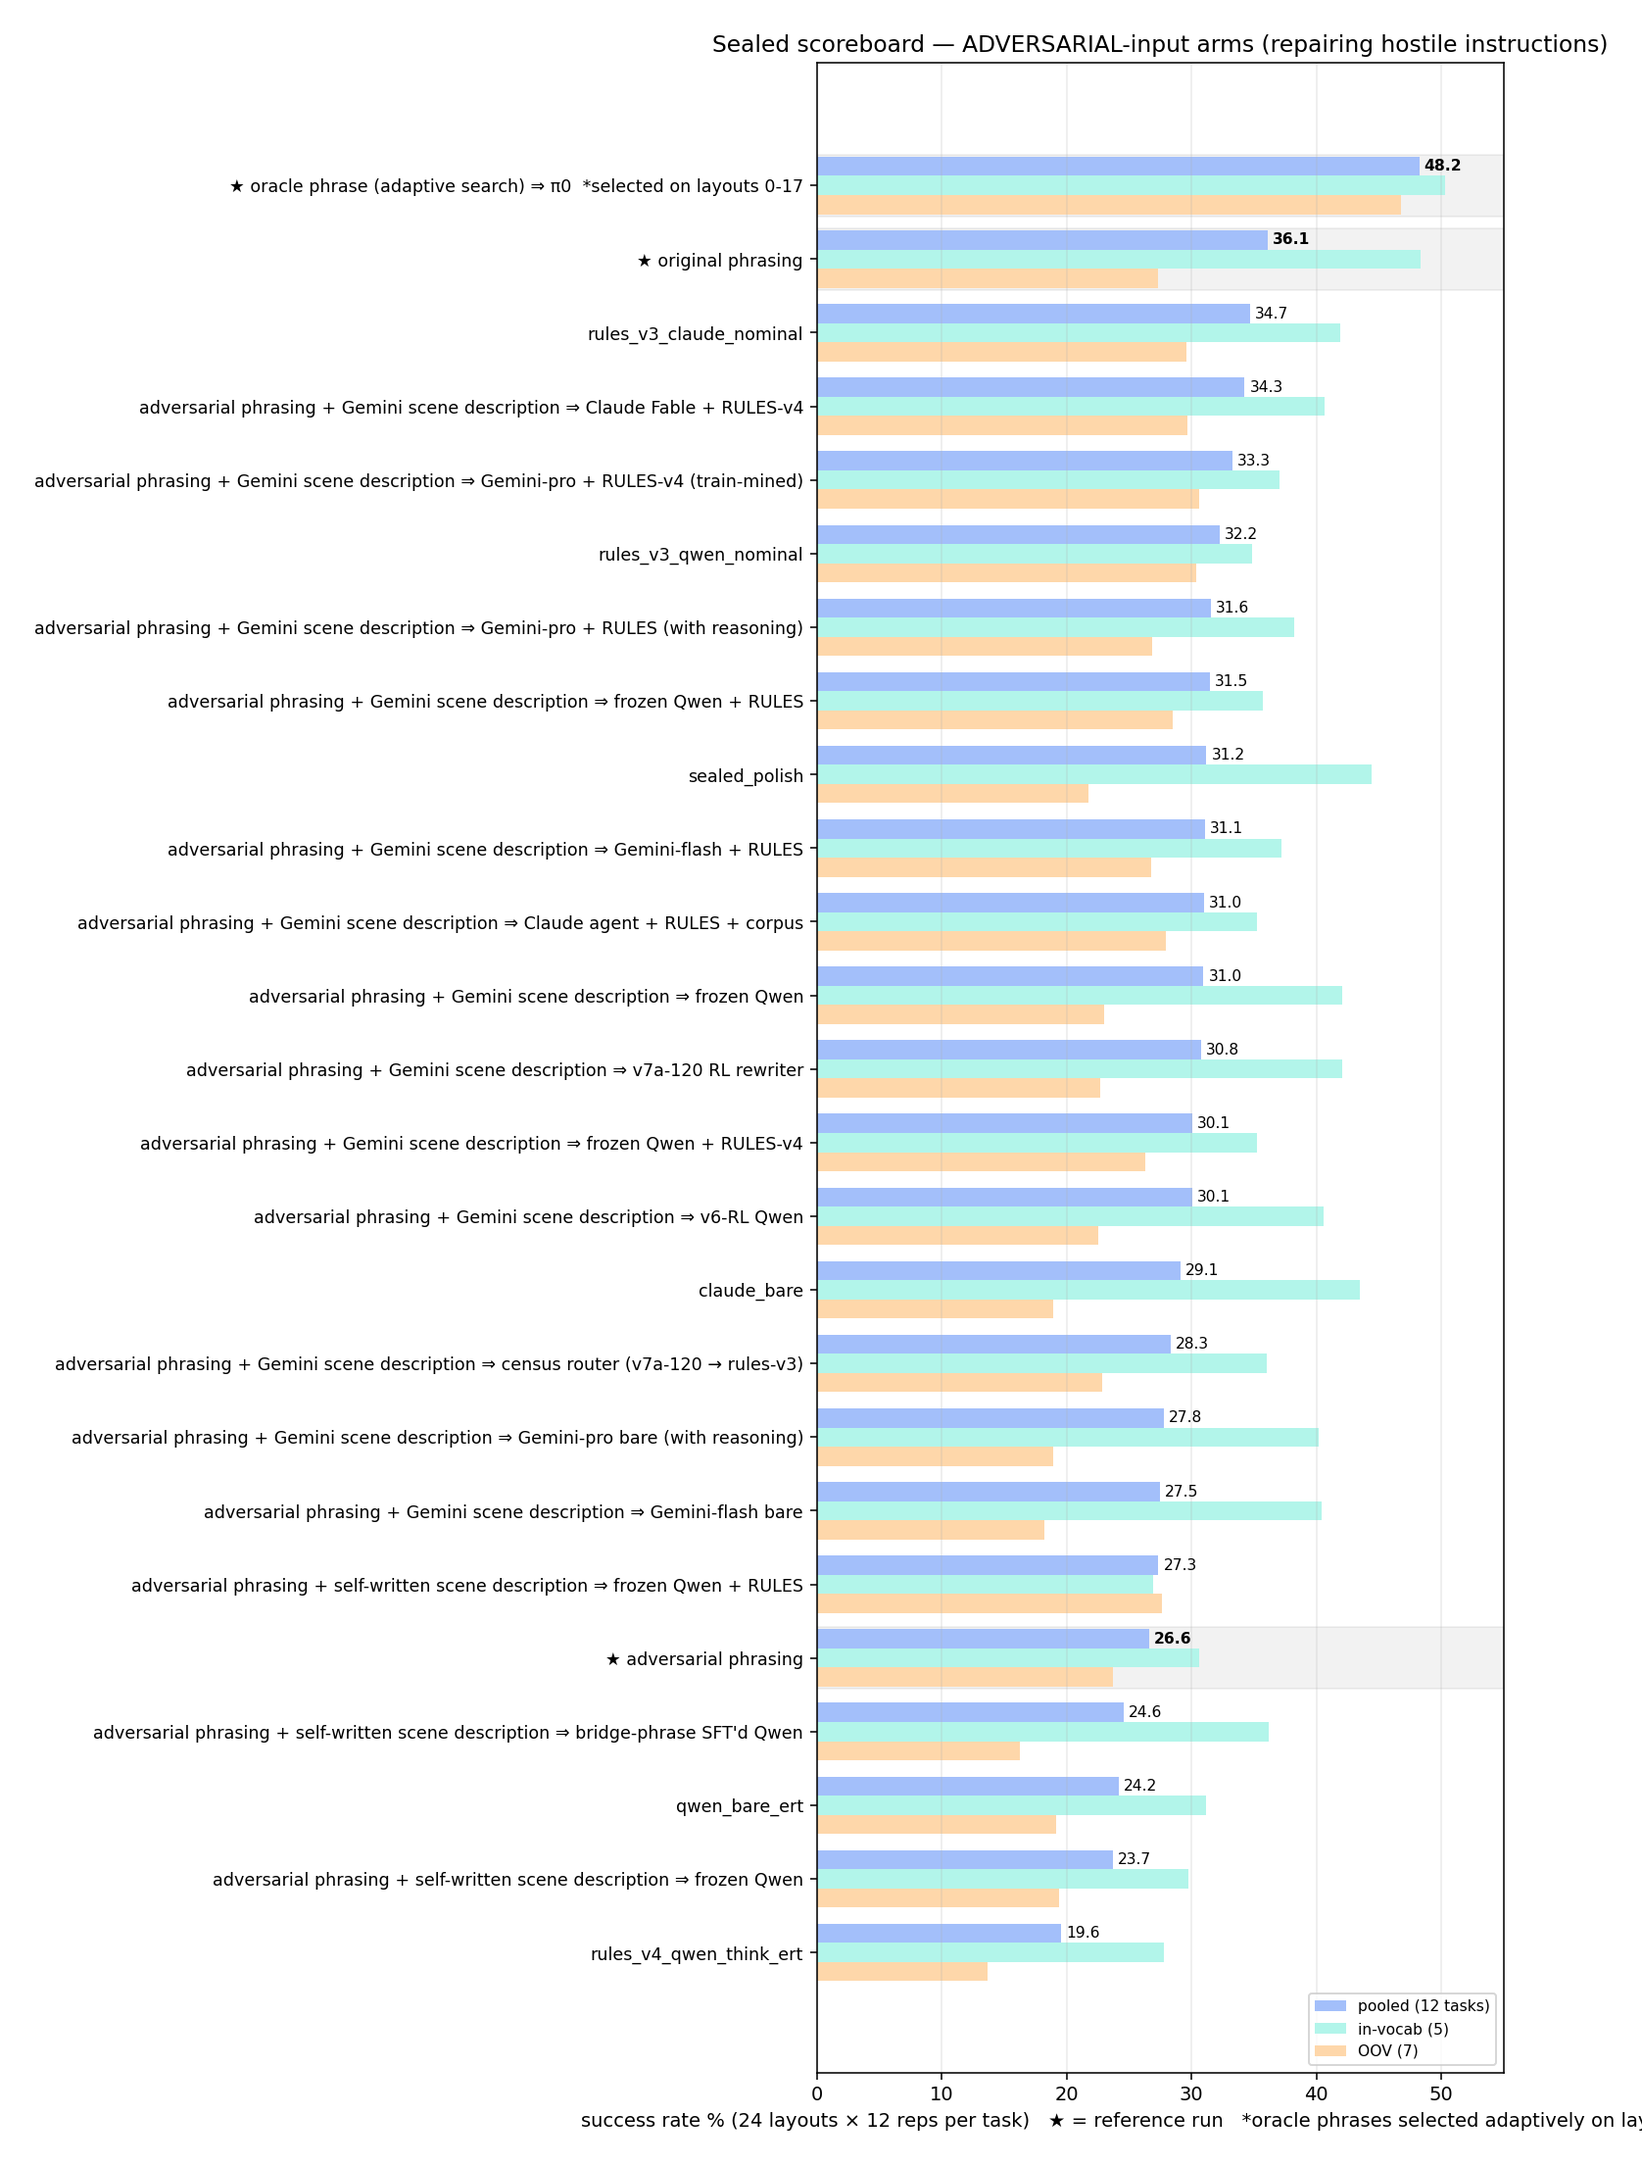
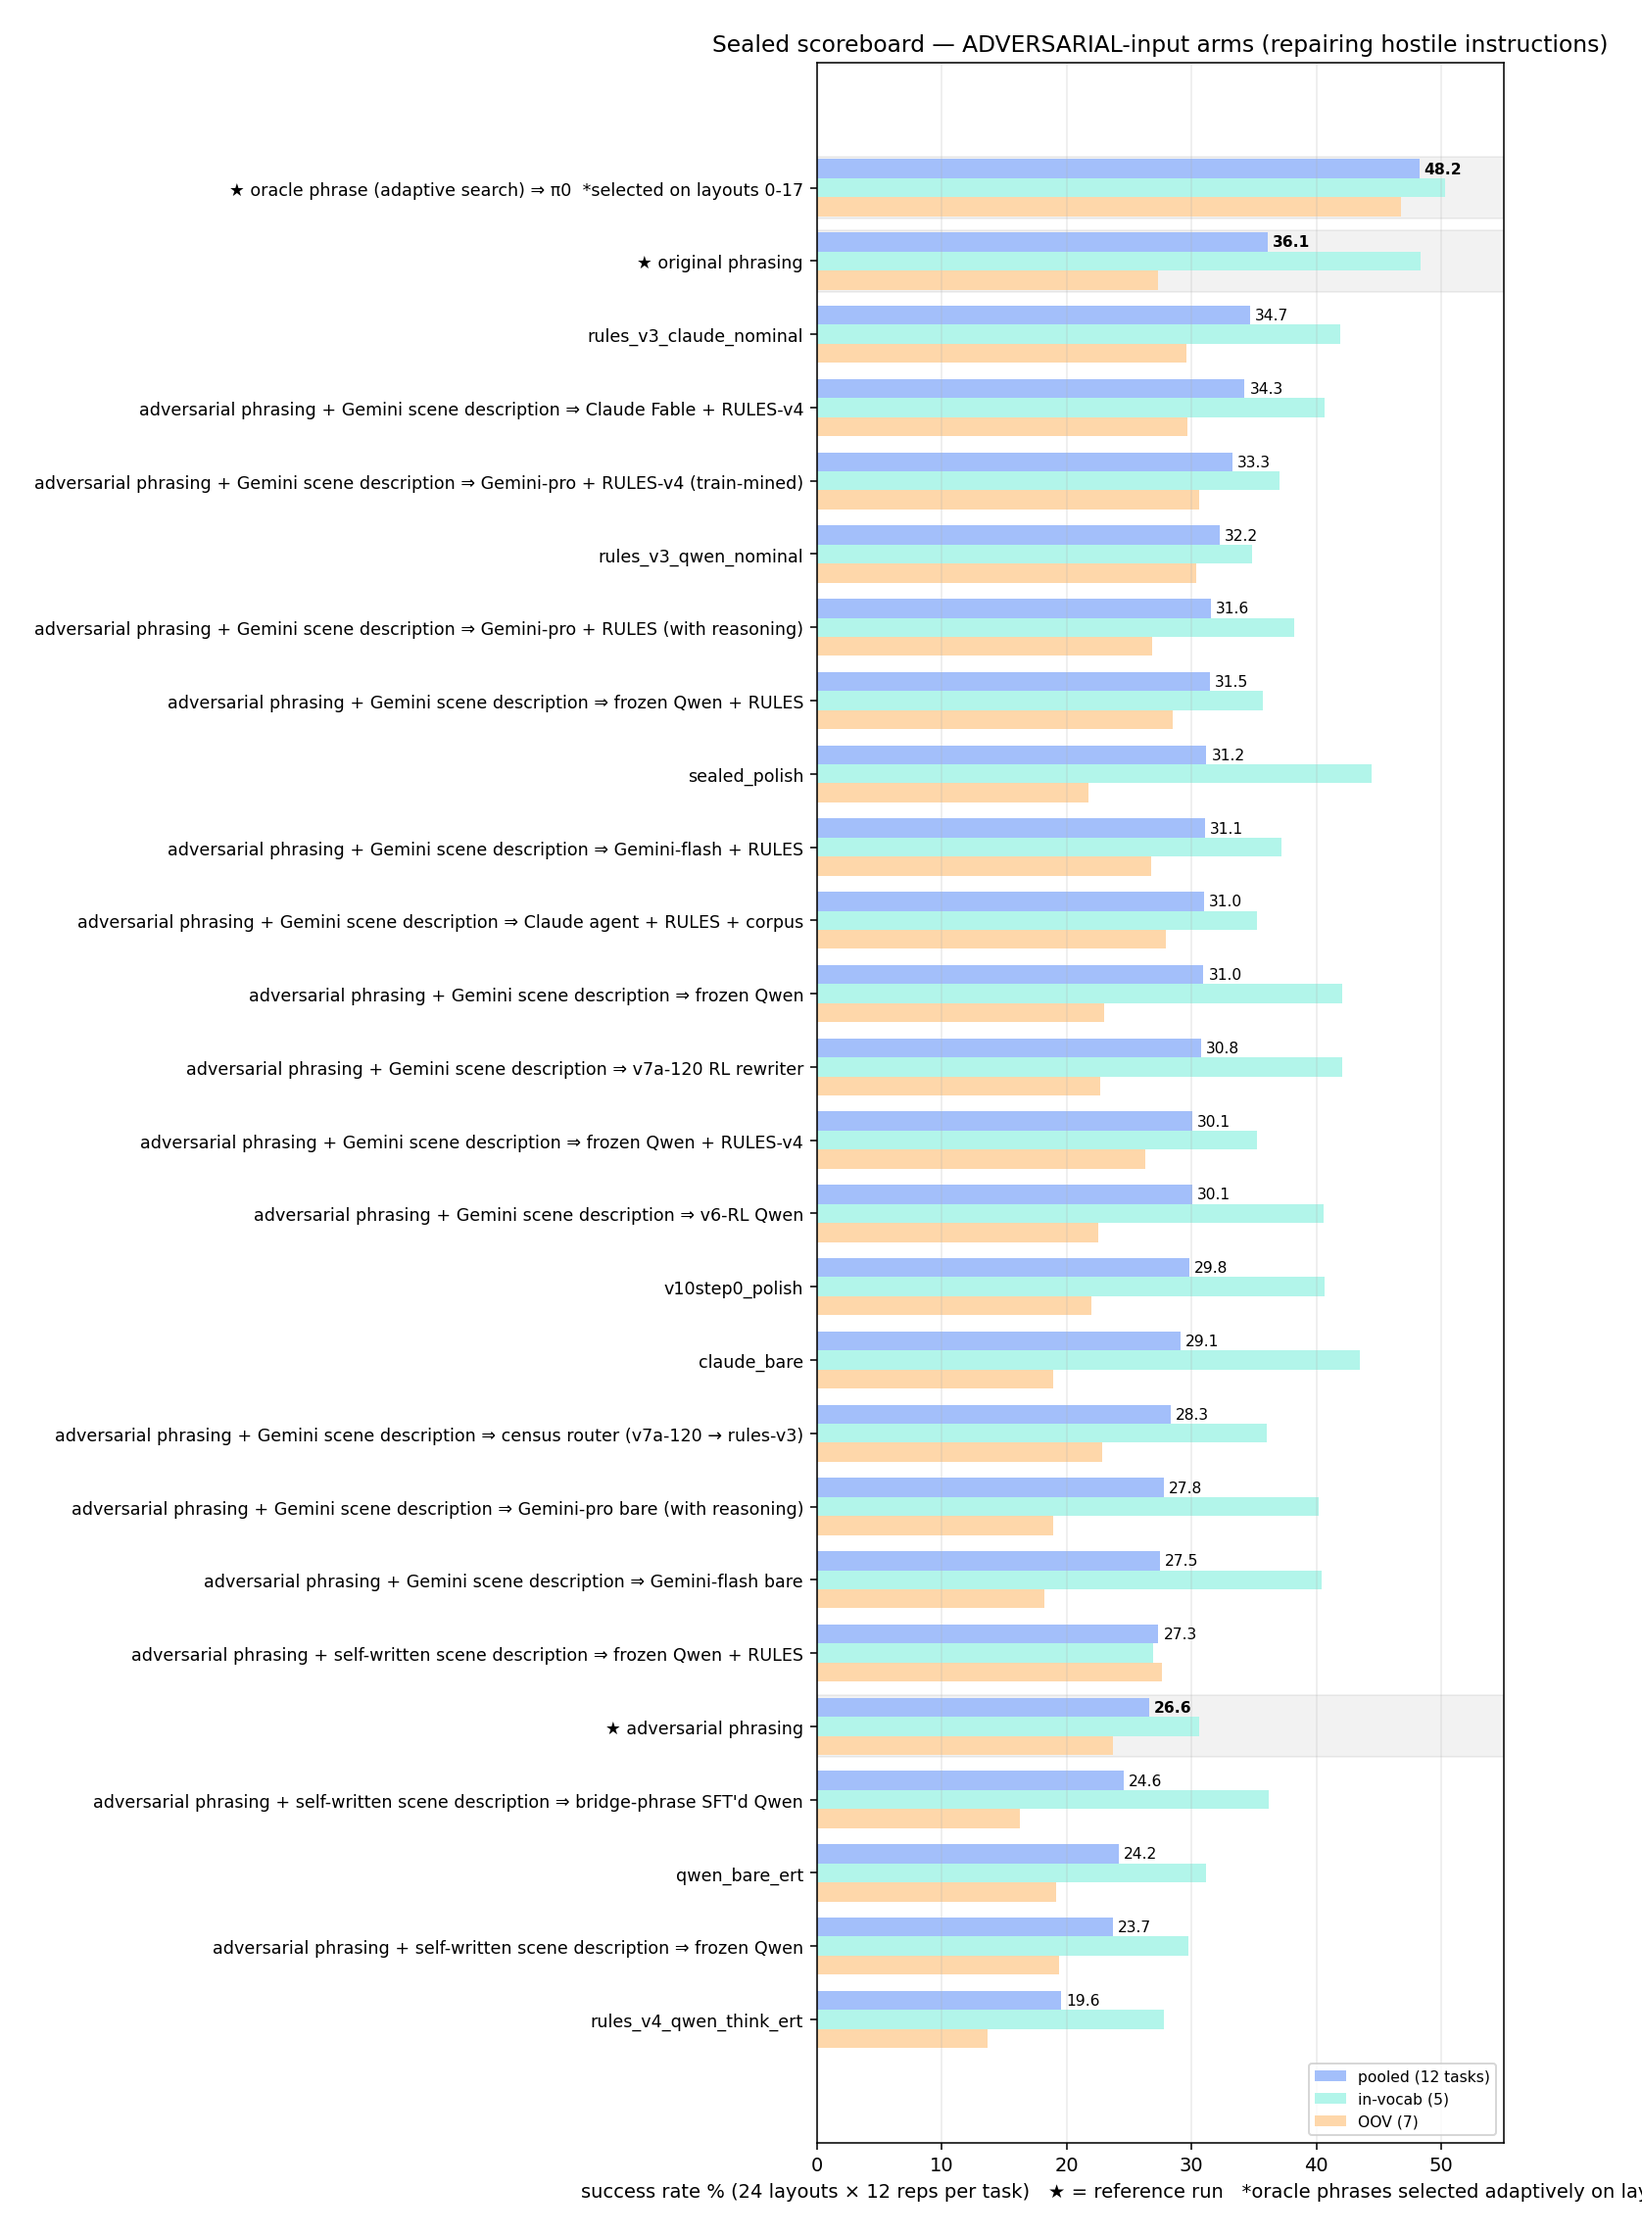
nominal ladder: + prompt-B bare cell (v10step0_polish 29.8/40.7/22.0, Qwen; the v10 RL zero-point); scoreboard refresh

diff --git a/scripts/make_condition_ladders.py b/scripts/make_condition_ladders.py
@@ -24,13 +24,13 @@ DATA = {
         "pending": {},
     },
     "nominal": {
-        "roles": ["train+rollout rules (v4)", "rollout rules (v3)"],
+        "roles": ["train+rollout rules (v4)", "rollout rules (v3)", "no rules (prompt B)"],
         "models": {
-            "Frozen Qwen": [(27.8, 34.9, 22.7), (32.2, 34.9, 30.3)],
-            "Gemini-Pro": [(37.2, 46.0, 30.9), (34.8, 42.1, 29.6)],
-            "Claude Fable": [(37.7, 47.6, 30.7), (34.7, 41.9, 29.6)],
+            "Frozen Qwen": [(27.8, 34.9, 22.7), (32.2, 34.9, 30.3), (29.8, 40.7, 22.0)],
+            "Gemini-Pro": [(37.2, 46.0, 30.9), (34.8, 42.1, 29.6), None],
+            "Claude Fable": [(37.7, 47.6, 30.7), (34.7, 41.9, 29.6), None],
         },
-        "pending": {},
+        "pending": {("Gemini-Pro", 2): "not planned", ("Claude Fable", 2): "not planned"},
     },
 }
 STRATA = [("pooled", "#a3bffa"), ("in-vocab (5)", "#b2f5ea"), ("OOV (7)", "#fed7aa")]
